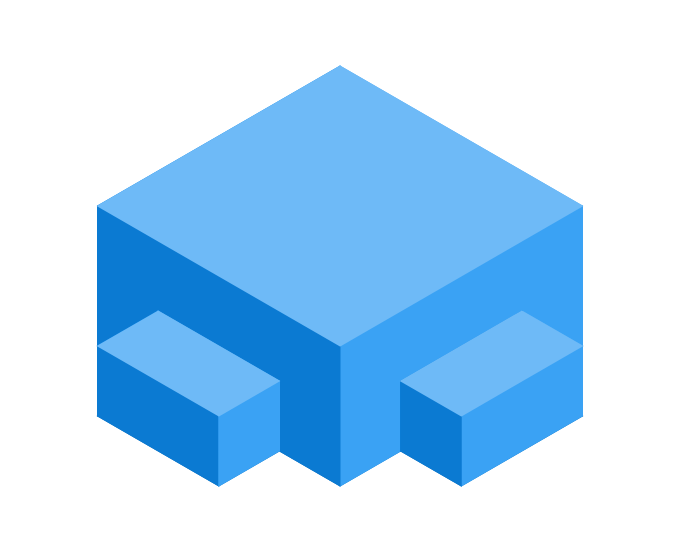
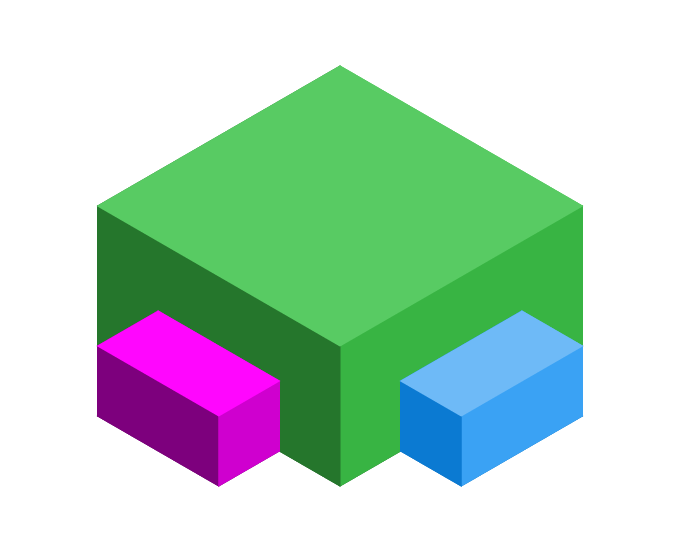
* improve tests and README

diff --git a/lib/src/androidTest/java/io/fabianterhorst/isometric/screenshot/IsometricViewTest.java b/lib/src/androidTest/java/io/fabianterhorst/isometric/screenshot/IsometricViewTest.java
@@ -1,10 +1,6 @@
 package io.fabianterhorst.isometric.screenshot;
 
-import android.support.test.filters.SmallTest;
 import android.support.test.runner.AndroidJUnit4;
-
-import com.facebook.testing.screenshot.Screenshot;
-import com.facebook.testing.screenshot.ViewHelpers;
 
 import org.junit.Test;
 import org.junit.runner.RunWith;
@@ -15,138 +11,133 @@ import io.fabianterhorst.isometric.Path;
 import io.fabianterhorst.isometric.Point;
 import io.fabianterhorst.isometric.Shape;
 import io.fabianterhorst.isometric.shapes.Cylinder;
+import io.fabianterhorst.isometric.shapes.Knot;
 import io.fabianterhorst.isometric.shapes.Octahedron;
 import io.fabianterhorst.isometric.shapes.Prism;
 import io.fabianterhorst.isometric.shapes.Pyramid;
 import io.fabianterhorst.isometric.shapes.Stairs;
 
 import static android.support.test.InstrumentationRegistry.getInstrumentation;
+import static io.fabianterhorst.isometric.screenshot.util.ScreenshotHelper.measureAndScreenshotView;
 
 /**
  * Created by fabianterhorst on 03.04.17.
  */
 
 @RunWith(AndroidJUnit4.class)
-@SmallTest
 public class IsometricViewTest {
+
+    private static final Color BLUE = new Color(50, 60, 160);
+    private static final Color GREEN = new Color(50, 160, 60);
+    private static final Color RED = new Color(160, 60, 50);
+    private static final Color TEAL = new Color(0, 180, 180);
+    private static final Color YELLOW = new Color(180, 180, 0);
+    private static final Color LIGHT_GREEN = new Color(40, 180, 40);
+    private static final Color PURPLE = new Color(180, 0, 180);
+
     @Test
     public void doScreenshotOne() {
         IsometricView view = new IsometricView(getInstrumentation().getTargetContext());
         sampleOne(view);
-        ViewHelpers.setupView(view)
-                .setExactWidthPx(680)
-                .setExactHeightPx(220)
-                .layout();
-        Screenshot.snap(view)
-                .record();
+        measureAndScreenshotView(view, 680, 220);
     }
 
     @Test
     public void doScreenshotTwo() {
         IsometricView view = new IsometricView(getInstrumentation().getTargetContext());
         sampleTwo(view);
-        ViewHelpers.setupView(view)
-                .setExactWidthPx(680)
-                .setExactHeightPx(540)
-                .layout();
-        Screenshot.snap(view)
-                .record();
+        measureAndScreenshotView(view, 680, 540);
     }
 
     @Test
     public void doScreenshotThree() {
         IsometricView view = new IsometricView(getInstrumentation().getTargetContext());
         sampleThree(0, view);
-        ViewHelpers.setupView(view)
-                .setExactWidthPx(820)
-                .setExactHeightPx(680)
-                .layout();
-        Screenshot.snap(view)
-                .record();
+        measureAndScreenshotView(view, 820, 680);
     }
 
     @Test
     public void doScreenshotGrid() {
         IsometricView view = new IsometricView(getInstrumentation().getTargetContext());
         grid(view);
-        ViewHelpers.setupView(view)
-                .setExactWidthPx(680)
-                .setExactHeightPx(540)
-                .layout();
-        Screenshot.snap(view)
-                .record();
+        measureAndScreenshotView(view, 680, 540);
     }
 
     @Test
     public void doScreenshotPath() {
         IsometricView view = new IsometricView(getInstrumentation().getTargetContext());
         path(view);
-        ViewHelpers.setupView(view)
-                .setExactWidthPx(680)
-                .setExactHeightPx(440)
-                .layout();
-        Screenshot.snap(view)
-                .record();
+        measureAndScreenshotView(view, 680, 440);
     }
 
     @Test
     public void doScreenshotTranslate() {
         IsometricView view = new IsometricView(getInstrumentation().getTargetContext());
         translate(view);
-        ViewHelpers.setupView(view)
-                .setExactWidthPx(680)
-                .setExactHeightPx(440)
-                .layout();
-        Screenshot.snap(view)
-                .record();
+        measureAndScreenshotView(view, 680, 440);
     }
 
     @Test
     public void doScreenshotScale() {
         IsometricView view = new IsometricView(getInstrumentation().getTargetContext());
         scale(view);
-        ViewHelpers.setupView(view)
-                .setExactWidthPx(680)
-                .setExactHeightPx(440)
-                .layout();
-        Screenshot.snap(view)
-                .record();
+        measureAndScreenshotView(view, 680, 440);
     }
 
     @Test
     public void doScreenshotRotateZ() {
         IsometricView view = new IsometricView(getInstrumentation().getTargetContext());
         rotateZ(view);
-        ViewHelpers.setupView(view)
-                .setExactWidthPx(680)
-                .setExactHeightPx(440)
-                .layout();
-        Screenshot.snap(view)
-                .record();
+        measureAndScreenshotView(view, 680, 440);
     }
 
     @Test
     public void doScreenshotExtrude() {
         IsometricView view = new IsometricView(getInstrumentation().getTargetContext());
         extrude(view);
-        ViewHelpers.setupView(view)
-                .setExactWidthPx(680)
-                .setExactHeightPx(440)
-                .layout();
-        Screenshot.snap(view)
-                .record();
+        measureAndScreenshotView(view, 680, 440);
     }
 
     @Test
     public void doScreenshotCylinder() {
         IsometricView view = new IsometricView(getInstrumentation().getTargetContext());
         cylinder(view);
-        ViewHelpers.setupView(view)
-                .setExactWidthPx(680)
-                .setExactHeightPx(440)
-                .layout();
-        Screenshot.snap(view)
-                .record();
+        measureAndScreenshotView(view, 680, 440);
+    }
+
+    @Test
+    public void doScreenshotKnot() {
+        IsometricView view = new IsometricView(getInstrumentation().getTargetContext());
+        knot(view);
+        measureAndScreenshotView(view, 680, 440);
+    }
+
+    @Test
+    public void doScreenshotOctahedron() {
+        IsometricView view = new IsometricView(getInstrumentation().getTargetContext());
+        octahedron(view);
+        measureAndScreenshotView(view, 680, 440);
+    }
+
+    @Test
+    public void doScreenshotPrism() {
+        IsometricView view = new IsometricView(getInstrumentation().getTargetContext());
+        prism(view);
+        measureAndScreenshotView(view, 680, 440);
+    }
+
+    @Test
+    public void doScreenshotPyramid() {
+        IsometricView view = new IsometricView(getInstrumentation().getTargetContext());
+        pyramid(view);
+        measureAndScreenshotView(view, 680, 440);
+    }
+
+    @Test
+    public void doScreenshotStairs() {
+        IsometricView view = new IsometricView(getInstrumentation().getTargetContext());
+        stairs(view);
+        measureAndScreenshotView(view, 680, 440);
     }
 
     public void grid(IsometricView isometricView) {
@@ -187,8 +178,8 @@ public class IsometricViewTest {
     }
 
     public void sampleTwo(IsometricView isometricView) {
-        isometricView.add(new Prism(new Point(0, 0, 0), 4, 4, 2), new Color(33, 150, 243));
-        isometricView.add(new Prism(new Point(-1, 1, 0), 1, 2, 1), new Color(33, 150, 243));
+        isometricView.add(new Prism(new Point(0, 0, 0), 4, 4, 2), GREEN);
+        isometricView.add(new Prism(new Point(-1, 1, 0), 1, 2, 1), PURPLE);
         isometricView.add(new Prism(new Point(1, -1, 0), 2, 1, 1), new Color(33, 150, 243));
     }
 
@@ -252,7 +243,26 @@ public class IsometricViewTest {
     }
 
     public void cylinder(IsometricView isometricView) {
-        Color blue = new Color(50, 60, 160);
-        isometricView.add(new Cylinder(new Point(1, 1, 1), 30, 1), blue);
+        isometricView.add(new Cylinder(new Point(1, 1, 1), 30, 1), BLUE);
+    }
+
+    public void knot(IsometricView isometricView) {
+        isometricView.add(new Knot(new Point(1, 1, 1)), GREEN);
+    }
+
+    public void octahedron(IsometricView isometricView) {
+        isometricView.add(new Octahedron(new Point(1, 1, 1)), RED);
+    }
+
+    public void prism(IsometricView isometricView) {
+        isometricView.add(new Prism(new Point(1, 1, 1)), YELLOW);
+    }
+
+    public void pyramid(IsometricView isometricView) {
+        isometricView.add(new Pyramid(new Point(1, 1, 1)), TEAL);
+    }
+
+    public void stairs(IsometricView isometricView) {
+        isometricView.add(new Stairs(new Point(1, 1, 1), 10), LIGHT_GREEN);
     }
 }

diff --git a/lib/src/androidTest/java/io/fabianterhorst/isometric/screenshot/util/ScreenshotHelper.java b/lib/src/androidTest/java/io/fabianterhorst/isometric/screenshot/util/ScreenshotHelper.java
@@ -1,0 +1,22 @@
+package io.fabianterhorst.isometric.screenshot.util;
+
+import android.view.View;
+
+import com.facebook.testing.screenshot.Screenshot;
+import com.facebook.testing.screenshot.ViewHelpers;
+
+/**
+ * Created by fabianterhorst on 05.04.17.
+ */
+
+public class ScreenshotHelper {
+
+    public static void measureAndScreenshotView(View view, int width, int height) {
+        ViewHelpers.setupView(view)
+                .setExactWidthPx(width)
+                .setExactHeightPx(height)
+                .layout();
+        Screenshot.snap(view)
+                .record();
+    }
+}

diff --git a/README.md b/README.md
@@ -116,3 +116,28 @@ isometricView.add(Shape.extrude(new Path(new Point[]{
 ```
 
 ![Image](https://github.com/FabianTerhorst/Isometric/blob/master/lib/screenshots/io.fabianterhorst.isometric.screenshot.IsometricViewTest_doScreenshotExtrude.png?raw=true)
+
+### Available Shapes
+#### [Cylinder](https://github.com/FabianTerhorst/Isometric/blob/master/lib/src/main/java/io/fabianterhorst/isometric/shapes/Cylinder.java)
+
+![Image](https://github.com/FabianTerhorst/Isometric/blob/master/lib/screenshots/io.fabianterhorst.isometric.screenshot.IsometricViewTest_doScreenshotCylinder.png?raw=true)
+
+[Knot](https://github.com/FabianTerhorst/Isometric/blob/master/lib/src/main/java/io/fabianterhorst/isometric/shapes/Knot.java)
+
+![Image](https://github.com/FabianTerhorst/Isometric/blob/master/lib/screenshots/io.fabianterhorst.isometric.screenshot.IsometricViewTest_doScreenshotKnot.png?raw=true)
+
+[Octahedron](https://github.com/FabianTerhorst/Isometric/blob/master/lib/src/main/java/io/fabianterhorst/isometric/shapes/Octahedron.java)
+
+![Image](https://github.com/FabianTerhorst/Isometric/blob/master/lib/screenshots/io.fabianterhorst.isometric.screenshot.IsometricViewTest_doScreenshotOctahedron.png?raw=true)
+
+[Prism](https://github.com/FabianTerhorst/Isometric/blob/master/lib/src/main/java/io/fabianterhorst/isometric/shapes/Prism.java)
+
+![Image](https://github.com/FabianTerhorst/Isometric/blob/master/lib/screenshots/io.fabianterhorst.isometric.screenshot.IsometricViewTest_doScreenshotPrism.png?raw=true)
+
+[Pyramid](https://github.com/FabianTerhorst/Isometric/blob/master/lib/src/main/java/io/fabianterhorst/isometric/shapes/Pyramid.java) 
+
+![Image](https://github.com/FabianTerhorst/Isometric/blob/master/lib/screenshots/io.fabianterhorst.isometric.screenshot.IsometricViewTest_doScreenshotPyramid.png?raw=true)
+
+[Stairs](https://github.com/FabianTerhorst/Isometric/blob/master/lib/src/main/java/io/fabianterhorst/isometric/shapes/Stairs.java)
+
+![Image](https://github.com/FabianTerhorst/Isometric/blob/master/lib/screenshots/io.fabianterhorst.isometric.screenshot.IsometricViewTest_doScreenshotStairs.png?raw=true)
